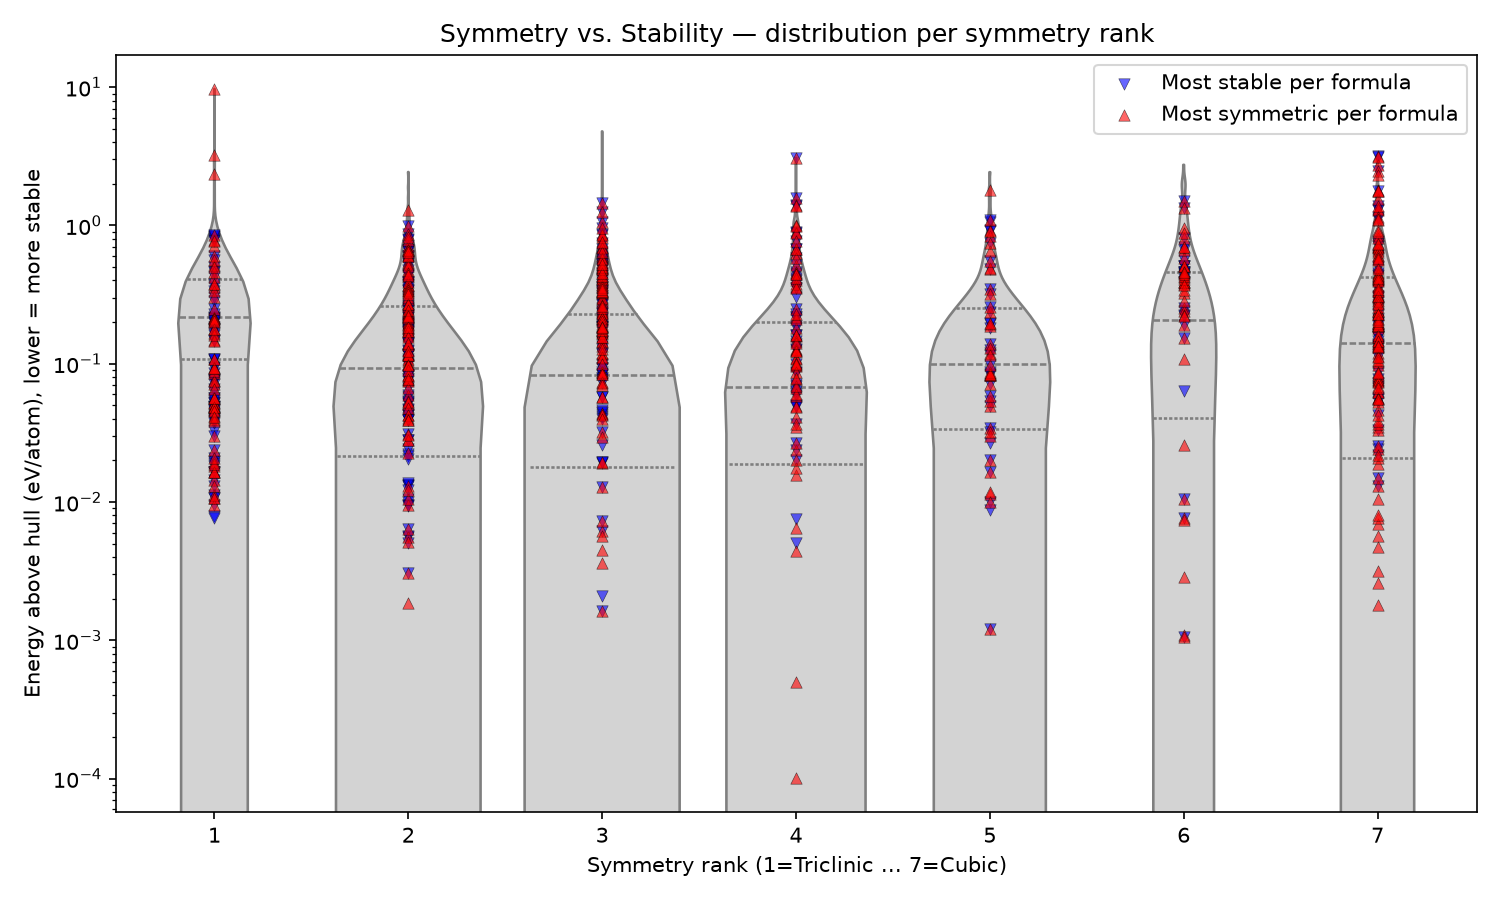
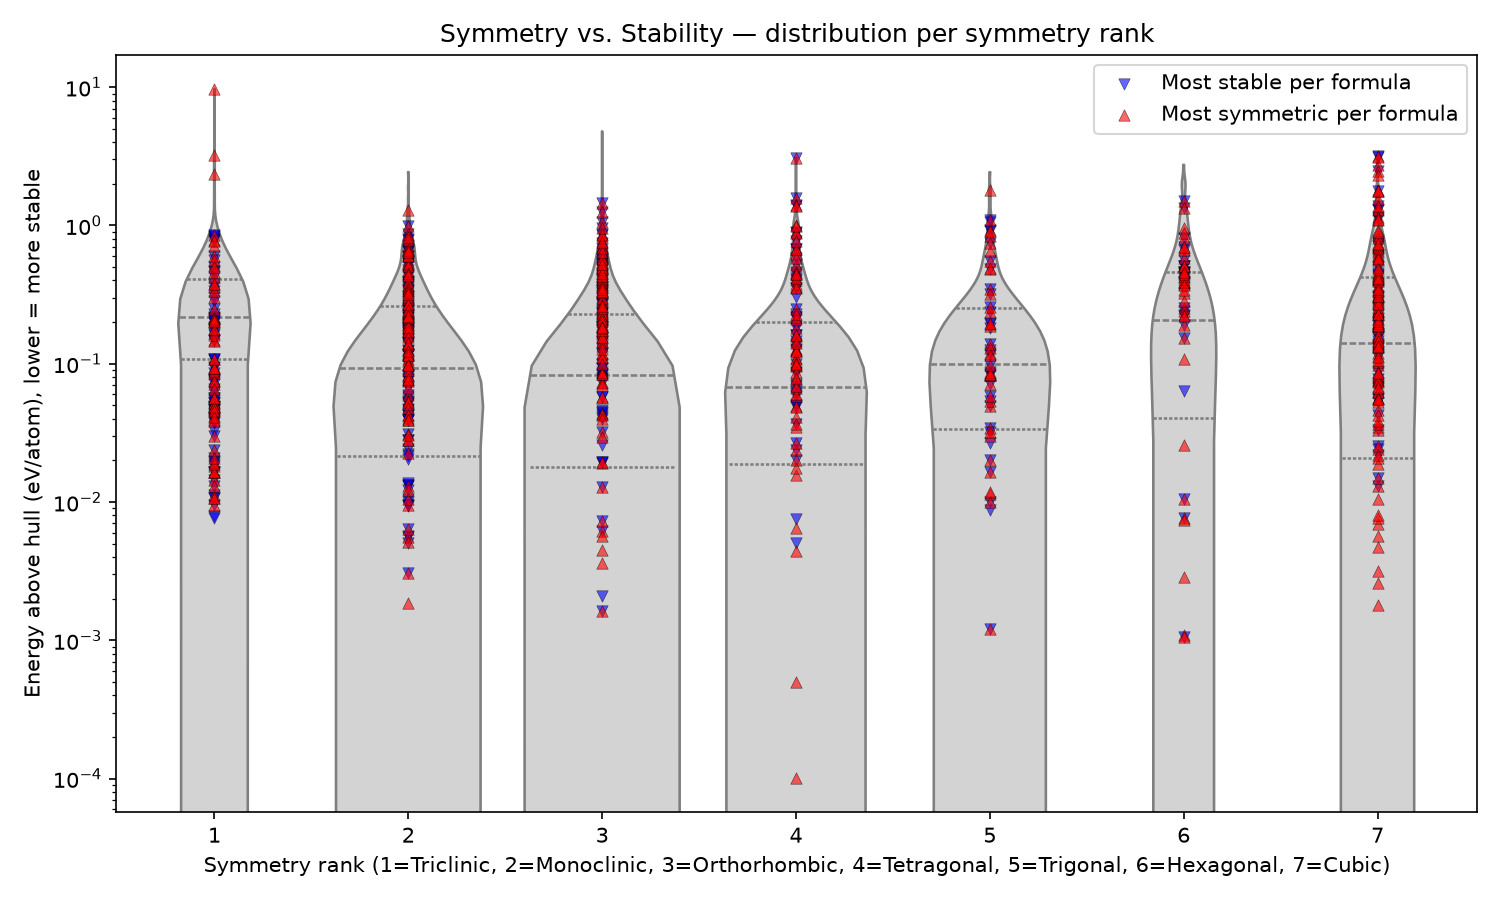
small png bottom text update

Changed region(s): [[0.3373, 0.9333, 0.92, 0.9956], [0.1533, 0.9333, 0.2453, 0.9644], [0.276, 0.9333, 0.3067, 0.9644]]

diff --git a/symmetry_stability.py b/symmetry_stability.py
@@ -75,7 +75,7 @@ def plotting_function(exception_df: pd.DataFrame):
         zorder=3,
     )
 
-    ax.set_xlabel("Symmetry rank (1=Triclinic ... 7=Cubic)")
+    ax.set_xlabel("Symmetry rank (1=Triclinic, 2=Monoclinic, 3=Orthorhombic, 4=Tetragonal, 5=Trigonal, 6=Hexagonal, 7=Cubic)")
     ax.set_ylabel("Energy above hull (eV/atom), lower = more stable")
     ax.set_title("Symmetry vs. Stability — distribution per symmetry rank")
     ax.legend()